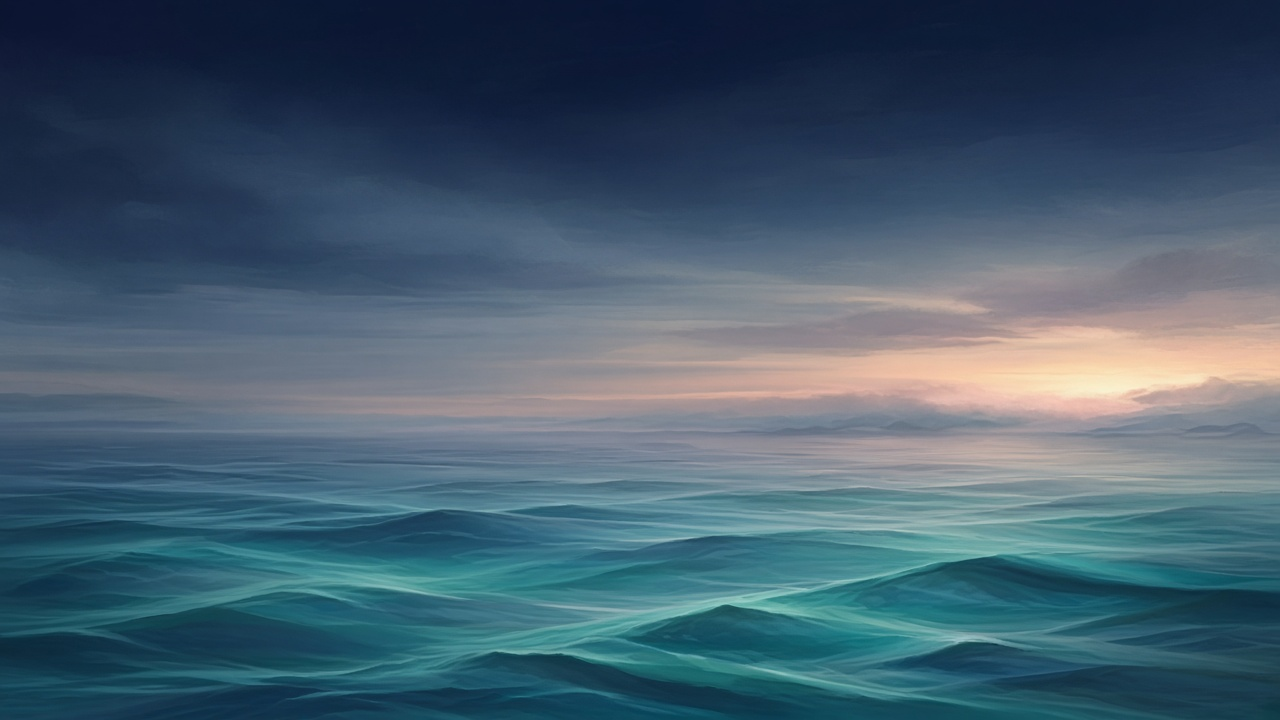
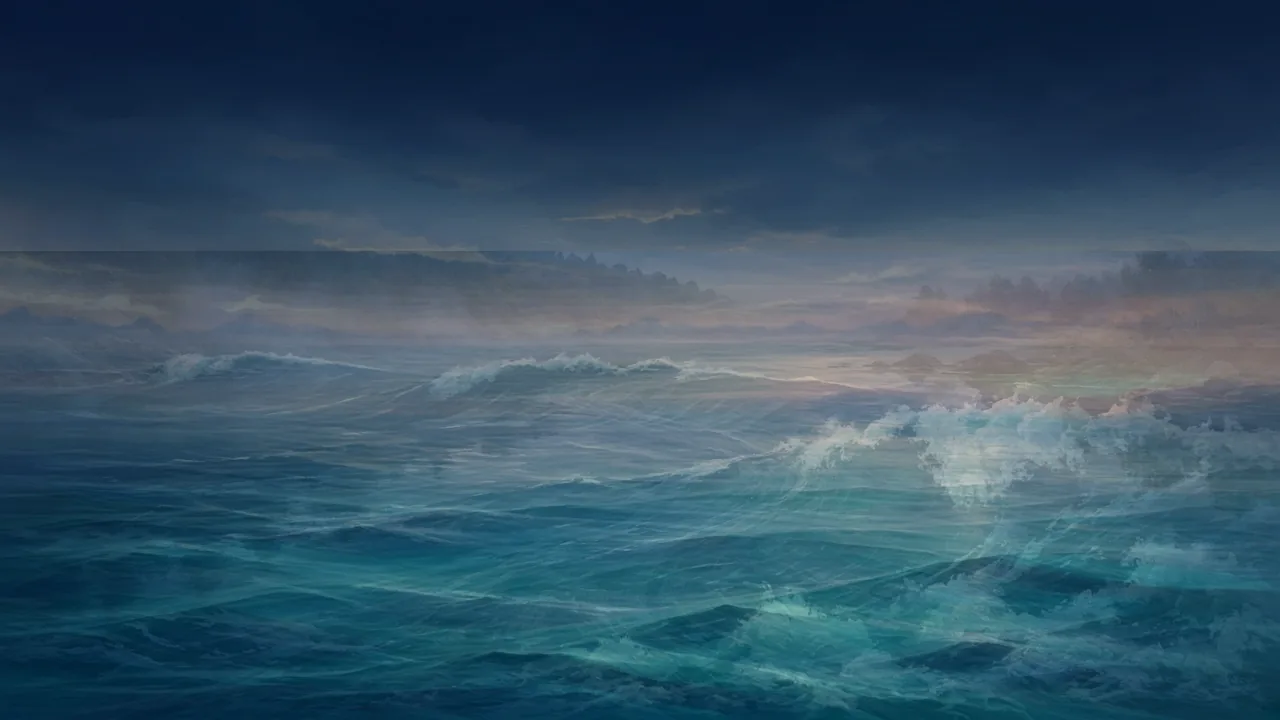
Polish immersive heroes, denser home, distinct QRC art
Upgrade has-art heroes to full-bleed backgrounds with navy scrims;
add home framework scene cards and path media; richer philosophy
ocean; calm-vs-swell risk-reward; unique QRC ridge/chart scene.

diff --git a/assets/css/site.css b/assets/css/site.css
@@ -556,77 +556,122 @@ strong { font-weight: 600; }
 .page-hero h1 { color: var(--foam); max-width: 18ch; }
 .page-hero .lede { color: rgba(244, 247, 248, 0.78); }
 
-/* Page hero with painterly scene art (stacked: text then full-bleed figure) */
-.page-hero.has-art {
+/* Immersive heroes: art as full-bleed background, text on navy scrim */
+.page-hero.has-art,
+.hero.has-art {
   position: relative;
-  padding-bottom: 0;
   overflow: hidden;
+  isolation: isolate;
+  min-height: clamp(22rem, 52vh, 34rem);
+  display: flex;
+  flex-direction: column;
+  justify-content: flex-end;
+  padding: clamp(3.25rem, 9vw, 5.75rem) 0 clamp(3.5rem, 8vw, 5.25rem);
+  background: var(--navy-deep, #071522);
 }
-.page-hero.has-art > .wrap {
+.page-hero.has-art > .wrap,
+.hero.has-art > .wrap {
   position: relative;
-  z-index: 1;
-  padding-bottom: clamp(1.25rem, 3vw, 1.75rem);
+  z-index: 2;
+  padding-bottom: 0;
 }
-.page-hero .hero-art {
+.page-hero.has-art .hero-art,
+.hero.has-art .hero-art {
+  position: absolute;
+  inset: 0;
   margin: 0;
   width: 100%;
-  max-height: 320px;
+  height: 100%;
+  max-height: none;
   overflow: hidden;
   line-height: 0;
+  z-index: 0;
   background: #0a1a2a;
+  opacity: 1;
 }
-.page-hero .hero-art img {
+.page-hero.has-art .hero-art img,
+.hero.has-art .hero-art img {
   display: block;
   width: 100%;
   height: 100%;
-  max-height: 320px;
+  max-height: none;
   object-fit: cover;
-  object-position: center;
+  object-position: center 58%;
 }
-@media (max-width: 720px) {
-  .page-hero .hero-art,
-  .page-hero .hero-art img {
-    max-height: 180px;
-  }
+/* Navy → transparent scrim for readable overlay text */
+.page-hero.has-art::before,
+.hero.has-art::before {
+  content: "";
+  position: absolute;
+  inset: 0;
+  z-index: 1;
+  pointer-events: none;
+  background:
+    linear-gradient(
+      180deg,
+      rgba(7, 21, 34, 0.88) 0%,
+      rgba(11, 31, 51, 0.62) 26%,
+      rgba(11, 31, 51, 0.28) 52%,
+      rgba(11, 31, 51, 0.12) 72%,
+      rgba(11, 31, 51, 0.48) 100%
+    ),
+    linear-gradient(
+      90deg,
+      rgba(7, 21, 34, 0.28) 0%,
+      transparent 42%,
+      transparent 100%
+    );
+}
+/* Soft fade mask at top of art into navy (extra top density) */
+.page-hero.has-art::after,
+.hero.has-art::after {
+  content: "";
+  position: absolute;
+  left: 0;
+  right: 0;
+  top: 0;
+  height: clamp(4.5rem, 14vh, 7rem);
+  z-index: 1;
+  pointer-events: none;
+  background: linear-gradient(
+    180deg,
+    rgba(7, 21, 34, 0.88) 0%,
+    rgba(7, 21, 34, 0.35) 55%,
+    transparent 100%
+  );
 }
 @media (min-width: 1100px) {
-  .page-hero .hero-art,
-  .page-hero .hero-art img {
-    max-height: 340px;
+  .page-hero.has-art,
+  .hero.has-art {
+    min-height: clamp(26rem, 56vh, 38rem);
+    padding-top: clamp(4rem, 10vw, 6.5rem);
+    padding-bottom: clamp(4rem, 9vw, 6rem);
+  }
+}
+@media (max-width: 720px) {
+  .page-hero.has-art,
+  .hero.has-art {
+    min-height: clamp(20rem, 68vh, 28rem);
+    padding: clamp(2.75rem, 10vw, 3.5rem) 0 clamp(2.75rem, 8vw, 3.5rem);
+  }
+  .page-hero.has-art h1,
+  .hero.has-art h1 {
+    max-width: 14ch;
+  }
+  .page-hero.has-art .lede,
+  .hero.has-art .lede {
+    font-size: 1.05rem;
   }
 }
 
-/* Home hero art band (subtle, under lede/CTAs) */
-.hero.has-art {
-  padding-bottom: 0;
-}
-.hero.has-art > .wrap {
-  position: relative;
+/* Home: fade decorative SVG rings when art carries the moment */
+.hero.has-art .hero-visual {
+  opacity: 0.12;
+  mix-blend-mode: soft-light;
   z-index: 1;
-  padding-bottom: clamp(1.5rem, 4vw, 2.25rem);
 }
-.hero .hero-art {
-  margin: 0;
-  width: 100%;
-  max-height: 240px;
-  overflow: hidden;
-  line-height: 0;
-  background: #0a1a2a;
-  opacity: 0.92;
-}
-.hero .hero-art img {
-  display: block;
-  width: 100%;
-  height: 100%;
-  max-height: 240px;
-  object-fit: cover;
-  object-position: center 40%;
-}
-@media (max-width: 720px) {
-  .hero .hero-art,
-  .hero .hero-art img {
-    max-height: 140px;
-  }
+@media (max-width: 760px) {
+  .hero.has-art .hero-visual { display: none; }
 }
 
 /* Insight / scene card thumbnails */
@@ -649,6 +694,11 @@ strong { font-weight: 600; }
   height: 100%;
   object-fit: cover;
   display: block;
+  transition: transform 0.35s ease;
+}
+.insight-card:hover .card-media img,
+.scene-card:hover .card-media img {
+  transform: scale(1.03);
 }
 .insight-card .card-body,
 .scene-card .card-body {
@@ -1491,13 +1541,13 @@ strong { font-weight: 600; }
   padding: 0;
   overflow: hidden;
   box-shadow: 0 4px 20px rgba(11, 31, 51, 0.04);
-  transition: transform 0.2s ease, box-shadow 0.2s ease;
+  transition: transform 0.25s ease, box-shadow 0.25s ease;
   display: flex;
   flex-direction: column;
 }
 .craft-card:hover {
-  transform: translateY(-3px);
-  box-shadow: var(--shadow);
+  transform: translateY(-4px);
+  box-shadow: 0 12px 36px rgba(11, 31, 51, 0.10);
 }
 .craft-card__media {
   aspect-ratio: 4 / 3;
@@ -1509,6 +1559,10 @@ strong { font-weight: 600; }
   height: 100%;
   object-fit: cover;
   display: block;
+  transition: transform 0.4s ease;
+}
+.craft-card:hover .craft-card__media img {
+  transform: scale(1.04);
 }
 .craft-card__body {
   padding: 1.25rem 1.35rem 1.45rem;
@@ -1522,6 +1576,51 @@ strong { font-weight: 600; }
   font-size: 0.95rem;
   line-height: 1.55;
 }
+
+/* Path cards with optional scene media */
+.path-card.has-media {
+  padding: 0;
+  min-height: 280px;
+  justify-content: flex-end;
+}
+.path-card.has-media .path-media {
+  position: absolute;
+  inset: 0;
+  margin: 0;
+  z-index: 0;
+}
+.path-card.has-media .path-media img {
+  width: 100%;
+  height: 100%;
+  object-fit: cover;
+  display: block;
+}
+.path-card.has-media .path-body {
+  position: relative;
+  z-index: 1;
+  padding: 2rem 1.75rem;
+}
+.path-card.steward.has-media::before {
+  content: "";
+  position: absolute;
+  inset: 0;
+  z-index: 1;
+  background: linear-gradient(165deg, rgba(11, 31, 51, 0.55) 0%, rgba(11, 31, 51, 0.88) 55%, rgba(11, 31, 51, 0.94) 100%);
+  pointer-events: none;
+}
+.path-card.open.has-media {
+  border: 1px solid var(--line);
+}
+.path-card.open.has-media::before {
+  content: "";
+  position: absolute;
+  inset: 0;
+  z-index: 1;
+  background: linear-gradient(165deg, rgba(244, 247, 248, 0.35) 0%, rgba(244, 247, 248, 0.88) 48%, rgba(255, 255, 255, 0.96) 100%);
+  pointer-events: none;
+}
+.path-card.has-media > .path-body { z-index: 2; }
+.path-card.has-media .btn { position: relative; z-index: 2; }
 
 /* ---------- Lifetime compounding chart ---------- */
 .lifetime-panel { overflow-x: auto; }

diff --git a/index.html b/index.html
@@ -52,12 +52,6 @@
           <a class="btn btn-secondary" href="/framework/">See the Flow Framework</a>
         </div>
       </div>
-      <svg class="hero-visual" viewBox="0 0 420 420" aria-hidden="true">
-        <circle cx="210" cy="210" r="180" fill="none" stroke="#C7A15A" stroke-width="1" opacity="0.35"/>
-        <circle cx="210" cy="210" r="140" fill="none" stroke="#2BA8A0" stroke-width="1.5" opacity="0.4"/>
-        <path d="M60 220c40-35 70-35 100 0s70 35 100 0 70-35 100 0" fill="none" stroke="#F4F7F8" stroke-width="3" stroke-linecap="round" opacity="0.5"/>
-        <path d="M80 260c35-28 60-28 85 0s60 28 85 0 60-28 85 0" fill="none" stroke="#2BA8A0" stroke-width="2" stroke-linecap="round" opacity="0.45"/>
-      </svg>
       <figure class="hero-art">
         <img src="/assets/img/scenes/philosophy-ocean.png" width="1600" height="900" alt="Calm navy ocean horizon with soft teal light" loading="eager" decoding="async">
       </figure>
@@ -132,23 +126,38 @@
           <p class="lede">Level-set what is true. Burn down what does not serve. Position risk and reward so capital can move when the set arrives.</p>
         </header>
         <div class="card-grid">
-          <article class="card">
-            <div class="card-num">01</div>
-            <h3>Level-Set</h3>
-            <p>See income, balance sheet, and cash flow as they are — not as you wish them. Clarity before allocation.</p>
-            <a class="card-link" href="/framework/">Explore the framework →</a>
+          <article class="card scene-card">
+            <div class="card-media">
+              <img src="/assets/img/scenes/level-set.png" width="800" height="500" alt="Still mountain lake at level dawn light" loading="lazy" decoding="async">
+            </div>
+            <div class="card-body">
+              <div class="card-num">01</div>
+              <h3>Level-Set</h3>
+              <p>See income, balance sheet, and cash flow as they are — not as you wish them. Clarity before allocation.</p>
+              <a class="card-link" href="/framework/">Explore the framework →</a>
+            </div>
           </article>
-          <article class="card">
-            <div class="card-num">02</div>
-            <h3>Burn-Down</h3>
-            <p>Budget as controlled outflow. Shape spending so surplus remains — the reservoir, filling with intention.</p>
-            <a class="card-link" href="/framework/">Explore the framework →</a>
+          <article class="card scene-card">
+            <div class="card-media">
+              <img src="/assets/img/scenes/burn-down.png" width="800" height="500" alt="Quiet controlled outflow through a narrow channel" loading="lazy" decoding="async">
+            </div>
+            <div class="card-body">
+              <div class="card-num">02</div>
+              <h3>Burn-Down</h3>
+              <p>Budget as controlled outflow. Shape spending so surplus remains — the reservoir, filling with intention.</p>
+              <a class="card-link" href="/framework/">Explore the framework →</a>
+            </div>
           </article>
-          <article class="card">
-            <div class="card-num">03</div>
-            <h3>Risk-Reward</h3>
-            <p>Match risk to purpose and horizon. No guaranteed returns — only disciplined trade-offs for stewards and givers.</p>
-            <a class="card-link" href="/framework/">Explore the framework →</a>
+          <article class="card scene-card">
+            <div class="card-media">
+              <img src="/assets/img/scenes/risk-reward.png" width="800" height="500" alt="Calm water meeting a soft swell on one horizon" loading="lazy" decoding="async">
+            </div>
+            <div class="card-body">
+              <div class="card-num">03</div>
+              <h3>Risk-Reward</h3>
+              <p>Match risk to purpose and horizon. No guaranteed returns — only disciplined trade-offs for stewards and givers.</p>
+              <a class="card-link" href="/framework/">Explore the framework →</a>
+            </div>
           </article>
         </div>
       </div>
@@ -161,17 +170,27 @@
           <h2>Which current are you in?</h2>
         </header>
         <div class="two-path">
-          <div class="path-card steward">
-            <p class="eyebrow" style="color:var(--gold-soft);">Steward Current</p>
-            <h3>Protect, compound, overflow.</h3>
-            <p>For households and families who already hold capital and want it to serve purpose across generations.</p>
-            <a class="btn btn-primary" href="/steward/">Steward Current</a>
+          <div class="path-card steward has-media">
+            <figure class="path-media" aria-hidden="true">
+              <img src="/assets/img/scenes/steward-overflow.png" width="900" height="560" alt="" loading="lazy" decoding="async">
+            </figure>
+            <div class="path-body">
+              <p class="eyebrow" style="color:var(--gold-soft);">Steward Current</p>
+              <h3>Protect, compound, overflow.</h3>
+              <p>For households and families who already hold capital and want it to serve purpose across generations.</p>
+              <a class="btn btn-primary" href="/steward/">Steward Current</a>
+            </div>
           </div>
-          <div class="path-card open">
-            <p class="eyebrow">Open Current</p>
-            <h3>Build the vessel first.</h3>
-            <p>For earners still shaping surplus — level-set, burn-down, and learn the framework before the ocean gets loud.</p>
-            <a class="btn btn-outline" href="/open/">Open Current</a>
+          <div class="path-card open has-media">
+            <figure class="path-media" aria-hidden="true">
+              <img src="/assets/img/scenes/open-vessel.png" width="900" height="560" alt="" loading="lazy" decoding="async">
+            </figure>
+            <div class="path-body">
+              <p class="eyebrow">Open Current</p>
+              <h3>Build the vessel first.</h3>
+              <p>For earners still shaping surplus — level-set, burn-down, and learn the framework before the ocean gets loud.</p>
+              <a class="btn btn-outline" href="/open/">Open Current</a>
+            </div>
           </div>
         </div>
       </div>

diff --git a/qrc/index.html b/qrc/index.html
@@ -49,7 +49,7 @@
         <p class="lede">Flow Fund is the educational framework. QRC is the firm building the long path — including a planned Florida RIA registration that is not yet complete.</p>
       </div>
       <figure class="hero-art">
-        <img src="/assets/img/scenes/tools.png" width="1600" height="900" alt="Quiet workbench of measuring tools beside water" loading="eager" decoding="async">
+        <img src="/assets/img/scenes/qrc.png" width="1600" height="900" alt="Quiet ridge beyond a chart table and still water" loading="eager" decoding="async">
       </figure>
     </section>
     <section class="section">

diff --git a/tools/risk-reward/index.html b/tools/risk-reward/index.html
@@ -52,7 +52,7 @@
         <p class="lede">An educational allocation map across cash, public equity, quality sleeves, alternatives, and giving vehicles. Qualitative bands only: preserve, compound, grow, overflow.</p>
       </div>
       <figure class="hero-art">
-        <img src="/assets/img/scenes/risk-reward.png" width="1600" height="900" alt="Balanced scales over navy and teal water" loading="eager" decoding="async">
+        <img src="/assets/img/scenes/risk-reward.png" width="1600" height="900" alt="Calm water meeting a soft swell on one horizon" loading="eager" decoding="async">
       </figure>
     </section>
 
